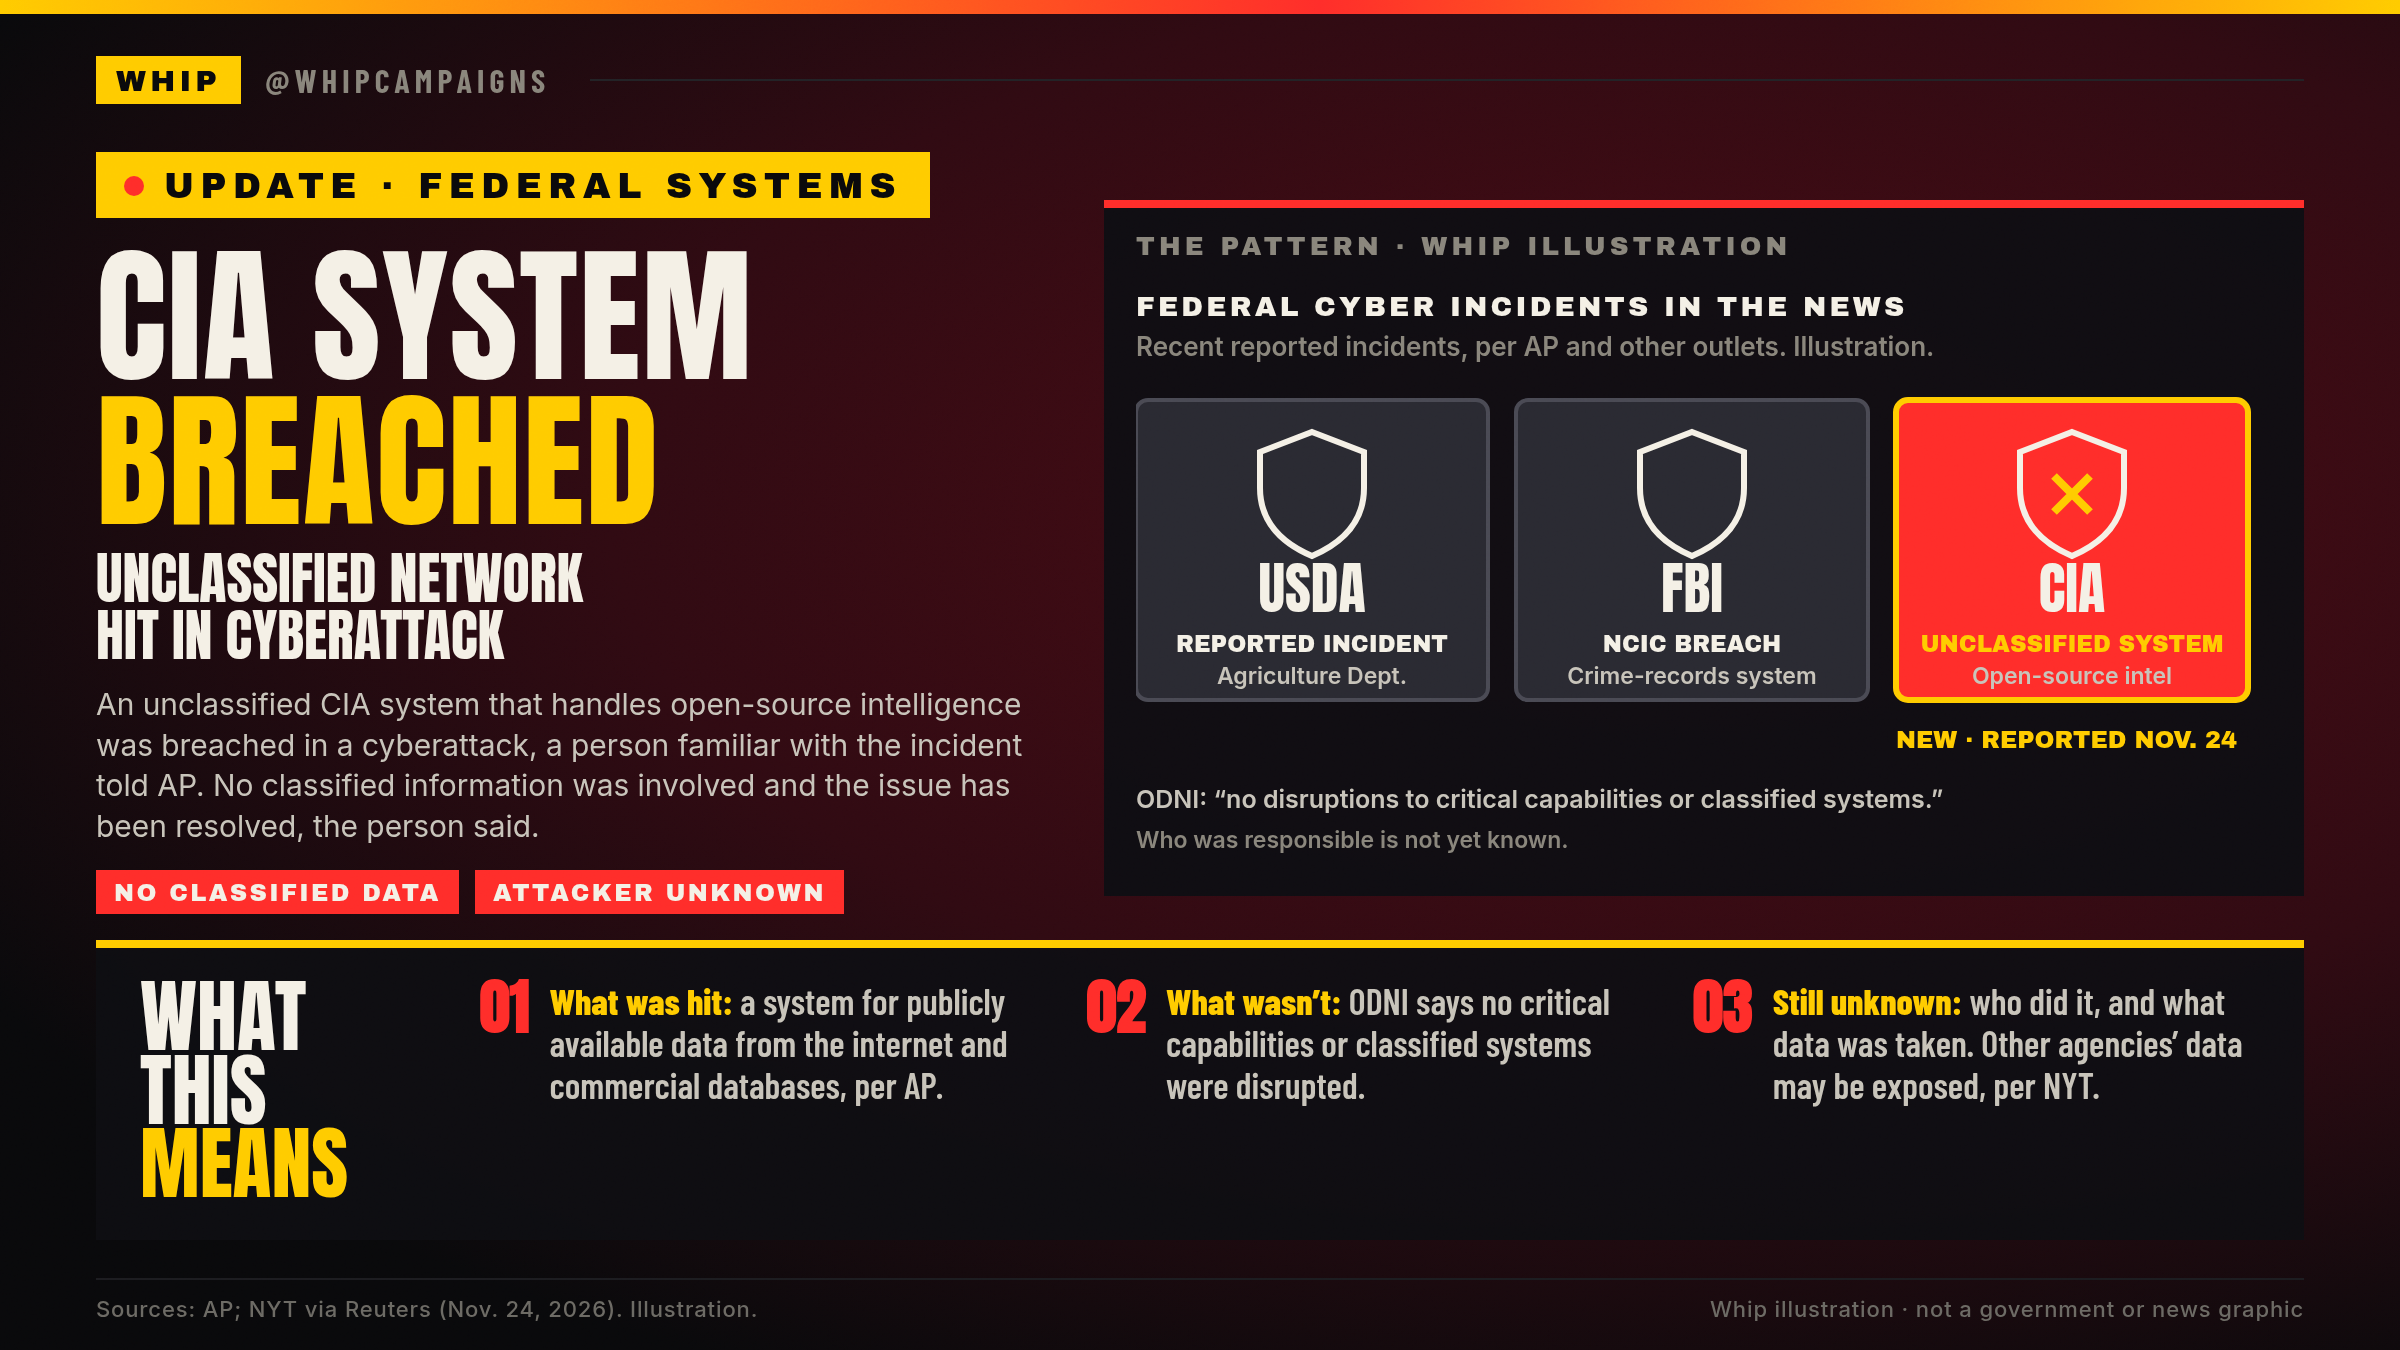
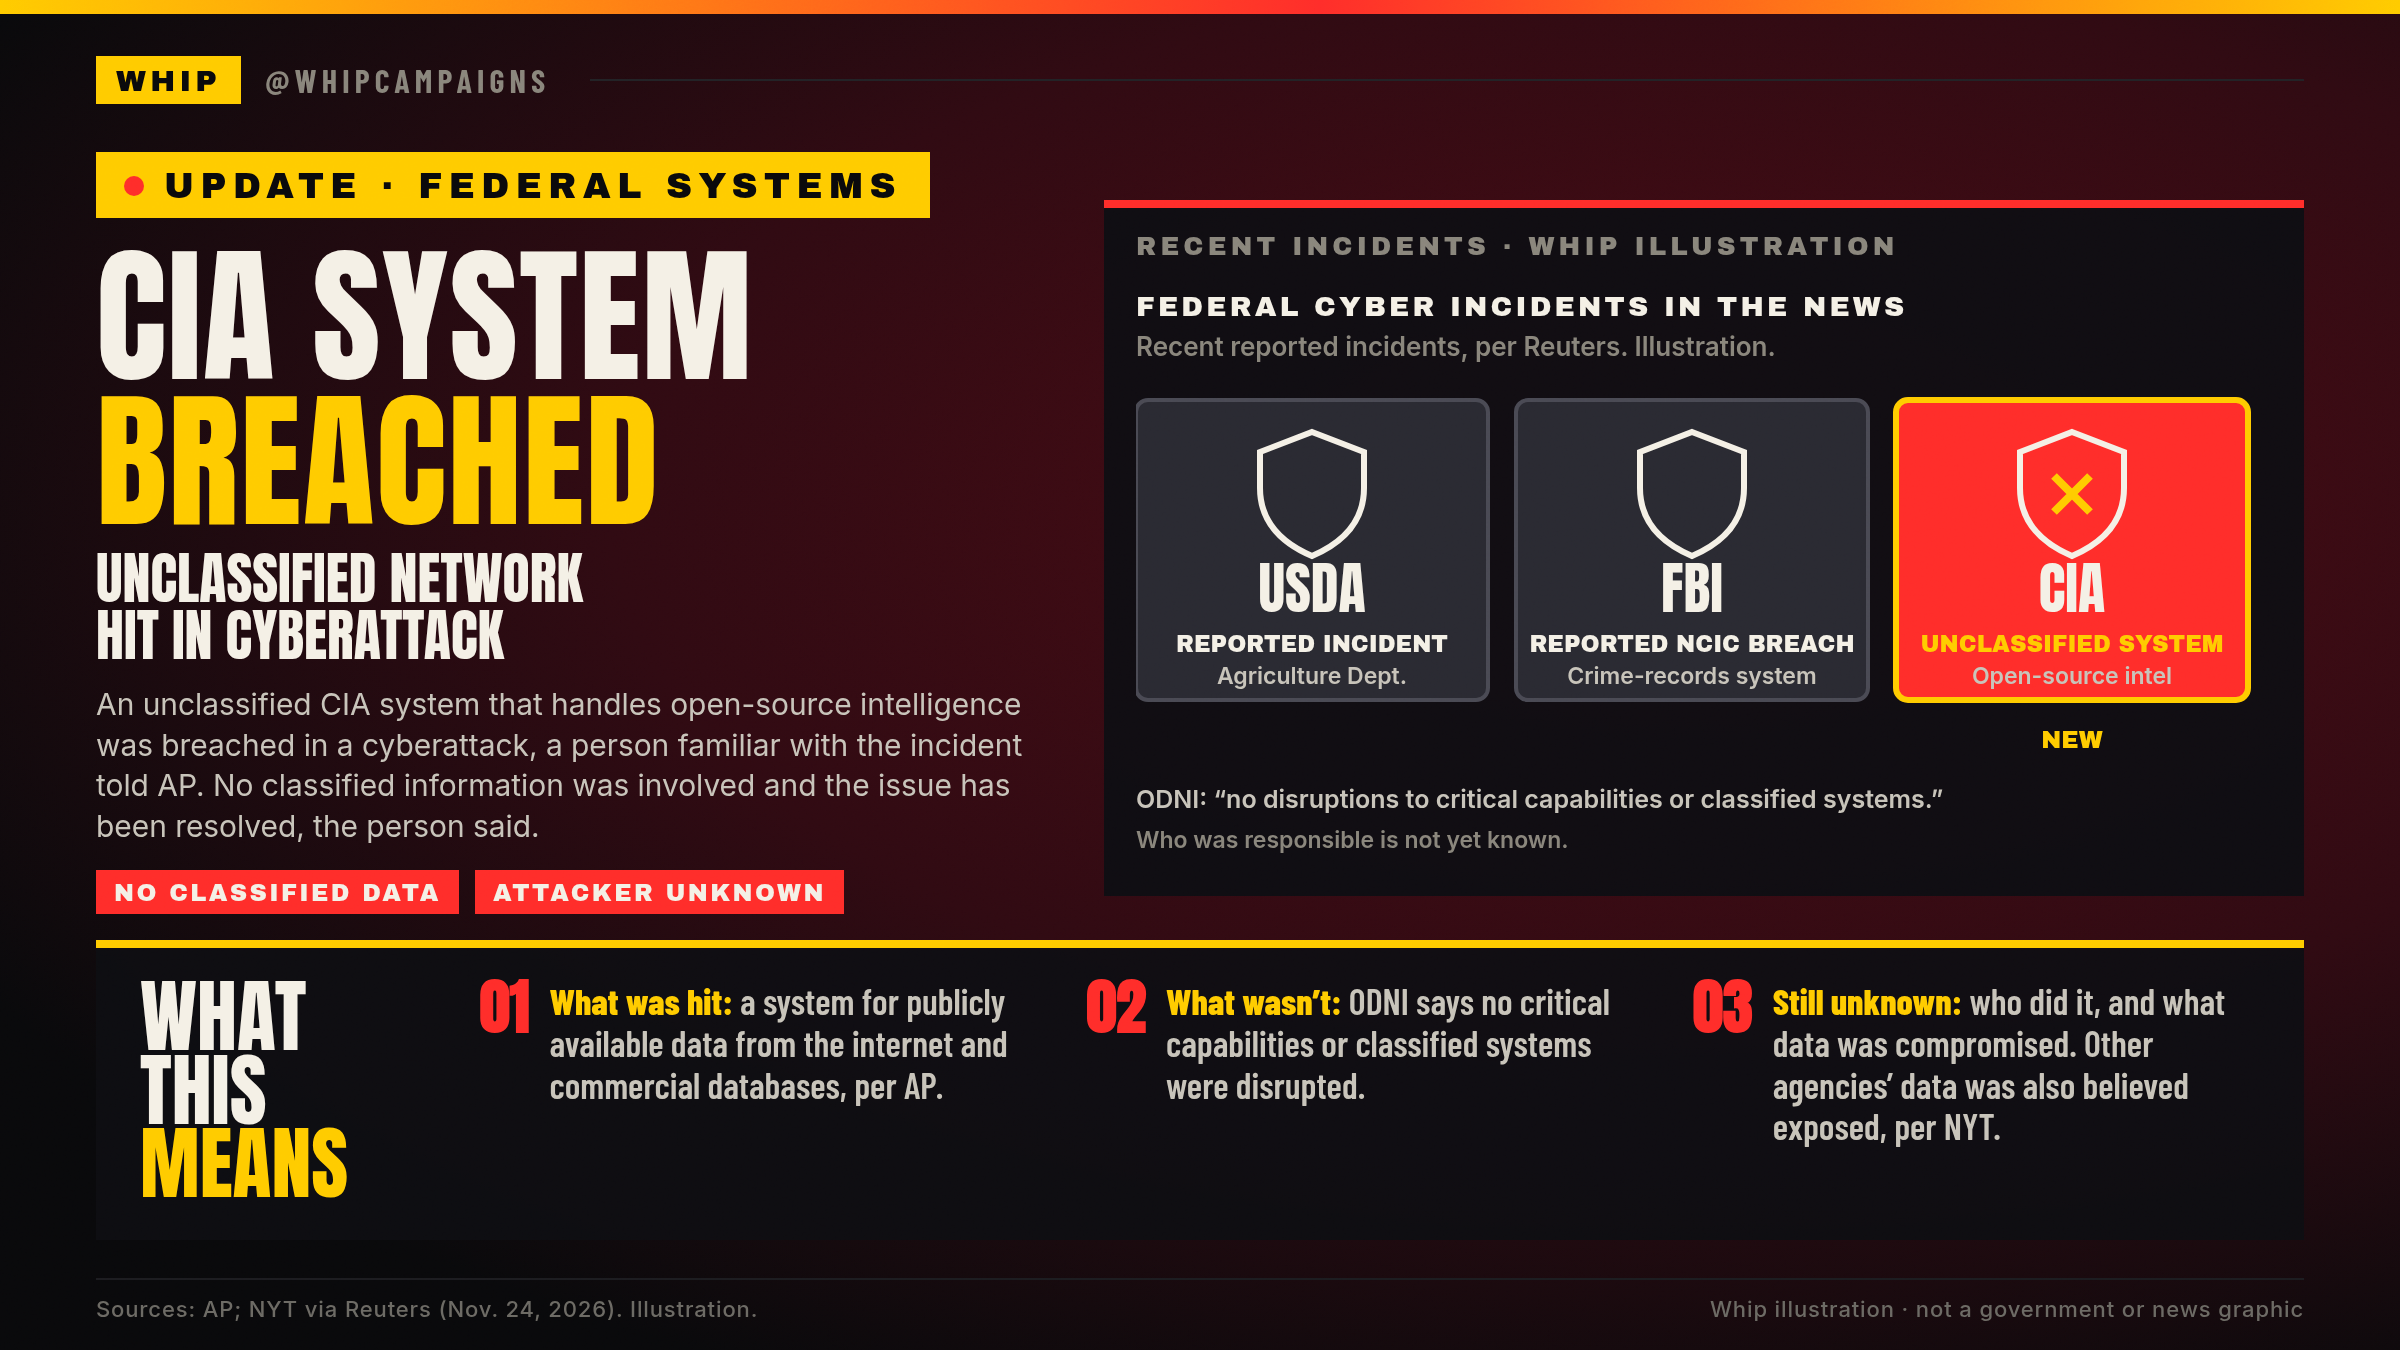
CIA breach card: NEW label, Recent Incidents heading, reported NCIC, box 03 wording

diff --git a/breaking/2026-11-24-cia-odni-breach/make_card.py b/breaking/2026-11-24-cia-odni-breach/make_card.py
@@ -13,8 +13,8 @@ W, H = 568, 300
 RED, YEL, PAPER, MUTE = "#ff2d2a", "#ffcc00", "#f4f0e6", "#8a867c"
 parts = []
 parts.append(f'<text x="0" y="20" font-family="Archivo Black" font-size="14" letter-spacing="1.6" fill="{PAPER}">FEDERAL CYBER INCIDENTS IN THE NEWS</text>')
-parts.append(f'<text x="0" y="40" font-family="Inter" font-size="13" font-weight="600" fill="{MUTE}">Recent reported incidents, per AP and other outlets. Illustration.</text>')
-boxes = [("USDA", "Reported incident", "Agriculture Dept.", False), ("FBI", "NCIC breach", "Crime-records system", False), ("CIA", "Unclassified system", "Open-source intel", True)]
+parts.append(f'<text x="0" y="40" font-family="Inter" font-size="13" font-weight="600" fill="{MUTE}">Recent reported incidents, per Reuters. Illustration.</text>')
+boxes = [("USDA", "Reported incident", "Agriculture Dept.", False), ("FBI", "Reported NCIC breach", "Crime-records system", False), ("CIA", "Unclassified system", "Open-source intel", True)]
 for i, (ag, l1, l2, hot) in enumerate(boxes):
     x = i * 190
     col = RED if hot else "#2a2a32"
@@ -27,7 +27,7 @@ for i, (ag, l1, l2, hot) in enumerate(boxes):
     parts.append(f'<text x="{cx}" y="168" text-anchor="middle" font-family="Anton" font-size="28" fill="{PAPER}">{ag}</text>')
     parts.append(f'<text x="{cx}" y="188" text-anchor="middle" font-family="Archivo Black" font-size="11.5" fill="{YEL if hot else PAPER}">{l1.upper()}</text>')
     parts.append(f'<text x="{cx}" y="204" text-anchor="middle" font-family="Inter" font-size="11.5" font-weight="600" fill="#c8c4ba">{l2}</text>')
-parts.append(f'<text x="380" y="236" font-family="Archivo Black" font-size="12" fill="{YEL}">NEW &middot; REPORTED NOV. 24</text>')
+parts.append(f'<text x="468" y="236" text-anchor="middle" font-family="Archivo Black" font-size="12" fill="{YEL}">NEW</text>')
 parts.append(f'<text x="0" y="266" font-family="Inter" font-size="12.5" font-weight="600" fill="#c8c4ba">ODNI: &ldquo;no disruptions to critical capabilities or classified systems.&rdquo;</text>')
 parts.append(f'<text x="0" y="286" font-family="Inter" font-size="11.5" font-weight="600" fill="{MUTE}">Who was responsible is not yet known.</text>')
 graphic = f'<svg xmlns="http://www.w3.org/2000/svg" width="{W}" height="{H}" viewBox="0 0 {W} {H}">{"".join(parts)}</svg>'
@@ -41,14 +41,14 @@ html = wrap(f"""
   <div class="chips"><span>No classified data</span><span>Attacker unknown</span></div>
 </div>
 <div class="panel">
-  <div class="ph">THE PATTERN &middot; WHIP ILLUSTRATION</div>
+  <div class="ph">RECENT INCIDENTS &middot; WHIP ILLUSTRATION</div>
   {graphic}
 </div>
 <div class="strip">
   <div class="wt">WHAT THIS<br><span class="y">MEANS</span></div>
   <div class="b"><div class="n">01</div><div><b>What was hit:</b> a system for publicly available data from the internet and commercial databases, per AP.</div></div>
   <div class="b"><div class="n">02</div><div><b>What wasn&rsquo;t:</b> ODNI says no critical capabilities or classified systems were disrupted.</div></div>
-  <div class="b"><div class="n">03</div><div><b>Still unknown:</b> who did it, and what data was taken. Other agencies&rsquo; data may be exposed, per NYT.</div></div>
+  <div class="b"><div class="n">03</div><div><b>Still unknown:</b> who did it, and what data was compromised. Other agencies&rsquo; data was also believed exposed, per NYT.</div></div>
 </div>
 """, """
 body{background:radial-gradient(ellipse at 70% 38%,#4a0b14 0%,#300a12 45%,#09090b 82%)}
